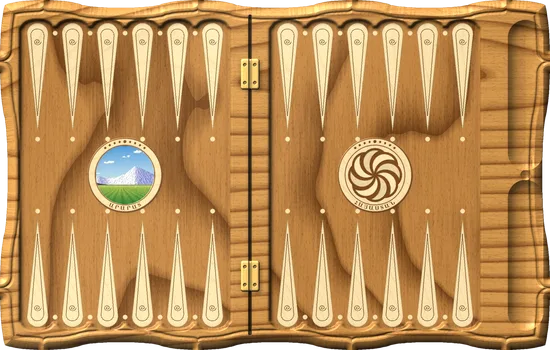
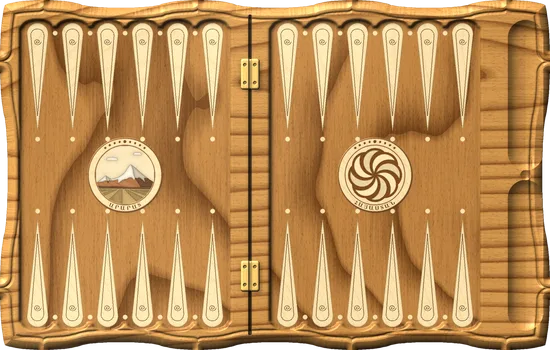
Арарат маркетри из шпона, кубики без проглядывающих граней
- медальон «Арарат» на доске «Армения» собран из кусков шпона разных пород (небо, облака, камень и снег на свету и в тени, предгорья, поле полосами), Сис и Масис целиком в круге
- у каждого кубика своя перспектива сверху: лежащий кубик показывает только верхнюю грань; сердечник закрывает щели между гранями в полёте

Claude-Session: https://claude.ai/code/session_013vq6NREHT7txoK1nXmxN83

Changed region(s): [[0.1545, 0.4, 0.2782, 0.6]]

diff --git a/index.html b/index.html
@@ -95,8 +95,9 @@ svg#board{position:absolute;inset:0;width:100%;height:100%;display:block}
 .hit{cursor:pointer}
 
 /* ---------- 3D кубики ---------- */
-.dice3d{position:absolute;inset:0;pointer-events:none;perspective:calc(var(--ds,50px) * 14);overflow:visible}
-.d3{position:absolute;width:var(--ds,50px);height:var(--ds,50px);margin:calc(var(--ds,50px) / -2) 0 0 calc(var(--ds,50px) / -2);transform-style:preserve-3d;transition:opacity .25s}
+.dice3d{position:absolute;inset:0;pointer-events:none;overflow:visible}
+/* у каждого кубика своя перспектива с точкой зрения прямо над ним: лежащий кубик показывает только верхнюю грань */
+.d3{position:absolute;width:var(--ds,50px);height:var(--ds,50px);margin:calc(var(--ds,50px) / -2) 0 0 calc(var(--ds,50px) / -2);perspective:calc(var(--ds,50px) * 14);transition:opacity .25s}
 .d3.used{opacity:.32}
 .d3.grab{pointer-events:auto;cursor:grab;touch-action:none}
 .d3.grab .cube{animation:nudge 2.4s ease-in-out infinite}
@@ -117,6 +118,8 @@ svg#board{position:absolute;inset:0;width:100%;height:100%;display:block}
   box-shadow:inset 0 0 0 1px rgba(176,138,62,.55),inset 0 calc(var(--ds,50px) * -.06) calc(var(--ds,50px) * .12) rgba(90,60,20,.25);
   display:grid;grid-template:repeat(3,1fr)/repeat(3,1fr);padding:16%;
 }
+/* внутренний сердечник: закрывает щели между скруглёнными гранями, когда кубик повёрнут ребром */
+.d3 .core{position:absolute;inset:3%;border-radius:16%;background:#d9cba8}
 .d3 .pip{width:68%;height:68%;margin:auto;border-radius:50%;background:radial-gradient(circle at 40% 35%,#3a2a1a,#0f0904);box-shadow:inset 0 1px 1px rgba(0,0,0,.6)}
 .d3 .pip.red{background:radial-gradient(circle at 40% 35%,#c0484a,#6e1517)}
 
@@ -303,7 +306,7 @@ svg#board{position:absolute;inset:0;width:100%;height:100%;display:block}
 (()=>{
 'use strict';
 const $=id=>document.getElementById(id);
-const APP_VERSION='8';   // совпадает с VERSION в sw.js; добавляется к адресам картинок, чтобы новые доски не брались из старого кэша
+const APP_VERSION='9';   // совпадает с VERSION в sw.js; добавляется к адресам картинок, чтобы новые доски не брались из старого кэша
 const NS='http://www.w3.org/2000/svg';
 const f2=v=>(+v).toFixed(1);
 
@@ -633,6 +636,7 @@ function dieEl(v){
     const [a,b]=FACE[f]; let pips='';
     for(let k=0;k<9;k++) pips+=PIPIDX[f].includes(k)?`<i class="pip${f===1?' red':''}"></i>`:'<i></i>';
     faces+=`<div class="face" style="transform:rotateX(${a}deg) rotateY(${b}deg) translateZ(calc(var(--ds) / 2))">${pips}</div>`;
+    faces+=`<div class="core" style="transform:rotateX(${a}deg) rotateY(${b}deg) translateZ(calc(var(--ds) * .47))"></div>`;
   }
   el.innerHTML=`<div class="shadow"></div><div class="mover"><div class="cube">${faces}</div></div>`;
   el.dataset.v=v;

diff --git a/sw.js b/sw.js
@@ -1,5 +1,5 @@
 // Офлайн-кэш: страница, доски, звуки и шрифты кэшируются при установке.
-const V = '8';                 // = APP_VERSION в index.html
+const V = '9';                 // = APP_VERSION в index.html
 const VERSION = 'nardy-v' + V;
 const SHELL = [
   './',

diff --git a/tools/render_boards.py b/tools/render_boards.py
@@ -257,79 +257,92 @@ ARARAT_RIDGE = [(-60, 6), (0, 20), (40, 38), (72, 54), (80, 57), (88, 54), (110,
                 (392, 74), (414, 64), (440, 52), (480, 35), (540, 14)]
 
 
-def ararat_painting(R, seed=7):
-    """Миниатюра под лаком: заснеженные Сис и Масис над зелёной долиной. Возвращает RGB размером (2R*S)^2."""
-    N = int(2 * R * S) * 3                                    # рисуем с запасом и уменьшаем
-    v, u = (np.mgrid[0:N, 0:N] + .5) / N * 2 - 1              # u вправо, v вниз, оба в -1..1
+def veneer(n, cols, angle, seed, **kw):
+    """Квадратный лист шпона n×n с волокнами под углом angle (градусы)."""
+    big = int(n * 1.45)
+    t = wood(big, big, *cols, seed=seed, **kw)
+    t = ndi.rotate(t, angle, axes=(0, 1), reshape=False, order=1, mode='reflect')
+    o = (big - n) // 2
+    return t[o:o + n, o:o + n]
+
+
+def ararat_marquetry(R, seed=7):
+    """Арарат маркетри: каждая часть пейзажа — отдельный кусок шпона своей породы со своим направлением волокон,
+    между кусками тонкий клеевой шов, края подпалены песком (sand shading) для объёма.
+    Сис и Масис целиком помещаются в круг радиуса R. Возвращает RGB размером (2R*S)^2."""
+    N = int(2 * R * S) * 2
+    v, u = (np.mgrid[0:N, 0:N] + .5) / N * 2 - 1
     rng = np.random.default_rng(seed)
-    hor, sc = .34, 1 / 175                                    # линия долины, масштаб эталона
+    hor, sx, sy = .40, 1 / 262, 1 / 150                       # по высоте горы чуть вытянуты, чтобы читались в круге
     x = u[0]
-    px = x / sc + 240
-    ridge = np.interp(px, *zip(*ARARAT_RIDGE)) * sc
-    ridge = ndi.gaussian_filter1d(ridge, N / 400)
-    jag = np.cumsum(rng.normal(0, 1, N)); jag -= np.linspace(jag[0], jag[-1], N)
-    ridge = ridge + ndi.gaussian_filter1d(jag, N / 300) / (np.abs(jag).max() + 1e-6) * .008
+    px = x / sx + 255
+    ridge = np.interp(px, *zip(*ARARAT_RIDGE)) * sy
+    ridge = ndi.gaussian_filter1d(ridge, N / 300)
     top = hor - ridge
-    # небо и кучевые облака
-    t = np.clip((v + 1) / (hor + 1), 0, 1)[..., None]
-    img = np.array((.24, .55, .86)) * (1 - t) ** 1.3 + np.array((.70, .83, .93)) * (1 - (1 - t) ** 1.3)
-    for cx_, cy_, w_ in ((-.55, -.42, .16), (.05, -.62, .13), (.5, -.78, .2), (-.9, -.05, .08), (.62, -.12, .07)):
-        cl = np.zeros((N, N))
-        for k in range(7):
-            ex, ey = cx_ + rng.uniform(-1, 1) * w_, cy_ + rng.uniform(-.25, .2) * w_
-            rr = w_ * rng.uniform(.25, .45)
-            cl = np.maximum(cl, np.clip(1 - np.hypot((u - ex) / rr, (v - ey) / (rr * .6)), 0, 1))
-        cl = np.clip(cl * 3, 0, 1) * (v < cy_ + w_ * .12)
-        cl = ndi.gaussian_filter(cl, N / 300) * (.85 + .3 * fbm(N, N, 30, 30, seed + 20, 3))
-        shade_c = np.clip((v - cy_ + w_ * .2) / (w_ * .4), 0, 1)[..., None]
-        ccol = np.array((1.0, 1.0, .99)) * (1 - shade_c) + np.array((.80, .84, .90)) * shade_c
-        img = img * (1 - cl[..., None]) + ccol * cl[..., None]
-    # горы: снег, освещённый слева, синие тени на восточных склонах, рёбра от вершин
-    mnt = np.clip((v - top[None, :]) * N / 2.2, 0, 1)
-    wS = (1 / (1 + np.exp((px - 132) / 14)))[None, :]      # доля Сиса: склоны двух вершин сливаются без шва
-    def peak_relief(pxk, hk, sd):
-        du, dv = u - (pxk - 240) * sc, v - (hor - hk * sc)
-        rad = np.hypot(du, dv * 1.5); ang = np.arctan2(du, dv + .02)
-        def streaks(fa, fr, sd):
-            G = fbm(int(fr), int(fa), fr / 8, fa / 6, sd, 4)
-            return ndi.map_coordinates(G, [np.clip(rad * fr * .5, 0, fr - 1), (ang / math.pi * .5 + .5) * (fa - 1)], order=1, mode='nearest')
-        rib = 1 - np.abs(streaks(500, 100, sd) - .5) * 2
-        rib2 = 1 - np.abs(streaks(1400, 220, sd + 1) - .5) * 2
-        return ndi.gaussian_filter(rib ** 3 * .7 + rib2 ** 2 * .3, 1.5), np.tanh(-du / .1)
-    rS, fS = peak_relief(80, 57, seed + 3); rM, fM = peak_relief(303, 113, seed + 5)
-    relief = rS * wS + rM * (1 - wS)
-    gy, gx = np.gradient(relief)
-    slope = np.gradient(ridge)[None, :] / (2 / N)             # наклон гребня: > 0 — склон к западу (освещён)
-    face = np.tanh(slope * 1.5) * .5 + (fS * wS + fM * (1 - wS)) * .5
-    light = .58 + .5 * face + (-gx * .8 - gy * .3) * N / 70 + (relief - .5) * .08
-    light = np.clip(light, 0, 1.1)[..., None]
-    snowS, snowL = np.array((.40, .46, .80)), np.array((1.0, 1.0, .99))
-    m_col = snowS + (snowL - snowS) * light
-    low = np.clip((v - (hor - .07)) / .07, 0, 1)[..., None]        # у подножия снег сходит, проступает склон в дымке
-    m_col = m_col * (1 - low * .55) + np.array((.58, .62, .74)) * low * .55
-    img = img * (1 - mnt[..., None]) + m_col * mnt[..., None]
-    # тёмный холм у подножия Сиса и полоса садов
-    hill = np.interp(px, [-60, -10, 30, 70, 110, 140], [0, 8, 14, 12, 4, 0]) * sc
-    hm = np.clip((v - (hor - hill)[None, :]) * N / 2.2, 0, 1)
-    img = img * (1 - hm[..., None]) + np.array((.22, .20, .30)) * hm[..., None]
-    band = hor + .012
-    trees = band - (.004 + .012 * np.clip(fbm(1, N, 1, 90, seed + 11, 3)[0] - .3, 0, 1))
-    tm = np.clip((v - trees[None, :]) * N / 2.2, 0, 1)
-    img = img * (1 - tm[..., None]) + np.array((.33, .40, .18)) * tm[..., None]
-    # поле: ряды всходов сходятся к горизонту, ближе — сочнее и темнее
-    base = band + .02
-    gv = np.clip((v - base) / (1 - base), 0, 1)
-    rows = np.sin((u + .15) / (gv + .02) * 16) * .5 + .5
-    rows = rows ** 2 * np.clip(gv * 6, 0, 1)
-    field = np.array((.62, .74, .28)) * (1 - gv[..., None]) + np.array((.12, .45, .12)) * gv[..., None]
-    field = field * (1 - rows[..., None] * .2) * (.9 + .2 * fbm(N, N, 30, 60, seed + 12, 3)[..., None])
-    strip = np.exp(-((v - base - .03) / .015) ** 2)[..., None] * .35    # светлая жёлтая полоса вдали
-    field = field * (1 - strip) + np.array((.85, .80, .40)) * strip
-    vm = np.clip((v - band) * N / 2.2, 0, 1)
-    img = img * (1 - vm[..., None]) + field * vm[..., None]
-    # тёплый тон лака и мазок кисти
-    img = img * np.array((1.0, .97, .90)) * (.97 + .06 * fbm(N, N, 90, 90, seed + 14, 2)[..., None])
-    out = Image.fromarray((np.clip(img, 0, 1) * 255).astype(np.uint8)).resize((N // 3, N // 3), Image.LANCZOS)
+    mnt = v > top[None, :]
+    # подножие: пологая линия предгорий, ниже — поле
+    foot = hor + .02 * np.sin(x * 2.3 + .6) + .01 * np.sin(x * 7.1)
+    fieldline = hor + .075 + .015 * np.sin(x * 1.7 - .4)
+    # вершины и линия тени (от вершины вниз-вправо: восточные склоны в тени)
+    peaks = [((80 - 255) * sx, hor - 57 * sy), ((303 - 255) * sx, hor - 113 * sy)]
+    wS = 1 / (1 + np.exp((px - 132) / 10))[None, :]
+    def shadow_side(pu, pv):
+        wob = .03 * np.sin((v - pv) * 9 + pu * 5)
+        return u > pu + (v - pv) * .42 + wob
+    # тень Сиса кончается у седловины: дальше вниз-влево её закрывает западный склон Масиса
+    su, sv = (132 - 255) * sx, hor - 39 * sy
+    sis_sh = shadow_side(*peaks[0]) & (u < su - .04 - (v - sv) * .55)
+    shadow = np.where(wS > .5, sis_sh, shadow_side(*peaks[1]))
+    # снег: языками вниз по кулуарам; вырезан ножом, поэтому края плавные
+    hgtM = np.clip((hor - v) / (113 * sy), 0, 1); hgtS = np.clip((hor - v) / (57 * sy), 0, 1)
+    ws2 = 1 / (1 + np.exp((px - 132) / 28))[None, :]
+    hgt = hgtS * ws2 + hgtM * (1 - ws2)
+    ang = np.where(wS > .5, np.arctan2(u - peaks[0][0], v - peaks[0][1] + .05), np.arctan2(u - peaks[1][0], v - peaks[1][1] + .05))
+    knots = rng.random(64)
+    tf = lambda a, k: np.interp(a * k, np.arange(64) - 32, knots, period=64)
+    tongues = (tf(ang, 5) * ws2 + tf(ang, 9) * (1 - ws2)) ** 2.2
+    snowline = .50 * ws2 + .40 * (1 - ws2) - tongues * .34 + (fbm(N, N, 3, 3, seed + 2, 2) - .5) * .08
+    snow = mnt & (hgt > snowline)
+    # метки кусков
+    L = np.zeros((N, N), int)                                 # 0 небо
+    L[mnt & ~snow & ~shadow] = 1                              # камень, свет
+    L[mnt & ~snow & shadow] = 2                               # камень, тень
+    L[snow & ~shadow] = 3                                     # снег, свет
+    L[snow & shadow] = 4                                      # снег, тень
+    L[v > foot[None, :]] = 5                                  # предгорья
+    L[v > fieldline[None, :]] = 6                             # поле
+    for cx_, cy_, w_ in ((-.45, -.52, .17), (.42, -.70, .13)):  # облака
+        cl = np.zeros((N, N), bool)
+        for k in range(5):
+            ex = cx_ + (k - 2) / 2 * w_ * .8; rr = w_ * (.45 if k in (1, 2, 3) else .3) * rng.uniform(.85, 1.1)
+            cl |= np.hypot((u - ex) / rr, (v - cy_ + rr * .5) / (rr * .75)) < 1
+        L[cl & (v < cy_ + .01) & (L == 0)] = 7
+    # поле — полосы двух пород, сходящиеся к горизонту, как ряды всходов
+    gv = np.clip((v - fieldline[None, :]) / (1 - hor), 0, 1)
+    strip = np.floor((u + .1) / (gv + .08) * 1.6).astype(int) % 2
+    L[(L == 6) & (strip == 1) & (gv > .06)] = 8
+    woods = {0: (((.94, .86, .69), (.86, .75, .55)), 2, dict(rings=8, contrast=.25, fiber=.08, warp=1)),
+             1: (((.72, .47, .27), (.55, .32, .16)), -38, dict(rings=14, contrast=.45, fiber=.12)),
+             2: (((.44, .27, .15), (.27, .15, .07)), 42, dict(rings=16, contrast=.45, fiber=.12)),
+             3: (((.99, .95, .86), (.93, .87, .74)), -60, dict(rings=10, contrast=.22, fiber=.07, warp=1)),
+             4: (((.83, .77, .65), (.71, .63, .50)), 60, dict(rings=10, contrast=.3, fiber=.08, warp=1)),
+             5: (((.50, .33, .18), (.33, .20, .09)), 0, dict(rings=10, contrast=.5, fiber=.12)),
+             6: (((.78, .64, .38), (.62, .48, .26)), 90, dict(rings=26, contrast=.4, fiber=.1)),
+             7: (((.99, .95, .86), (.93, .87, .74)), 0, dict(rings=6, contrast=.2, fiber=.06)),
+             8: (((.66, .52, .29), (.52, .39, .20)), 90, dict(rings=26, contrast=.4, fiber=.1))}
+    img = np.zeros((N, N, 3))
+    for k, (cols, angle, kw) in woods.items():
+        m = L == k
+        if not m.any(): continue
+        tex = veneer(N, cols, angle, seed * 10 + k, **kw)
+        # песочная подпалина: кусок темнее у краёв, сильнее у нижнего края снега и у гребня предгорий
+        d = ndi.distance_transform_edt(m) / N
+        burn = np.exp(-d / .025) * (.28 if k in (3, 4, 5) else .16)
+        img[m] = (tex * (1 - burn[..., None]))[m]
+    # клеевые швы между кусками — линия в пиксель
+    seam = (ndi.maximum_filter(L, 2) != ndi.minimum_filter(L, 2)).astype(float)
+    img = img * (1 - seam[..., None] * .55)
+    out = Image.fromarray((np.clip(img, 0, 1) * 255).astype(np.uint8)).resize((N // 2, N // 2), Image.LANCZOS)
     return np.asarray(out, float) / 255
 
 
@@ -541,14 +554,13 @@ def board_yerevan():
         h += disc * 1.2 - (txt + dots) * .8
     medallion(250, 350, 'ԱՐԱՐԱՏ')
     medallion(750, 350, 'ՀԱՅԱՍՏԱՆ')
-    # слева — живописная миниатюра Арарата под лаком
+    # слева — Арарат маркетри
     pic = np.zeros((H, W, 3)); n = int(2 * 58 * S)
     y0, x0 = int((350 - 58) * S), int((250 - 58) * S)
-    pic[y0:y0 + n, x0:x0 + n] = ararat_painting(58)
+    pic[y0:y0 + n, x0:x0 + n] = ararat_marquetry(58)
     pm = circle(250, 350, 58.2)
     alb = put(alb, pm, pic)
-    gloss = np.maximum(gloss, pm)
-    h -= pm * .6
+    h -= pm * .3
     # справа — аревахач маркетри
     arevakhach_inlay(alb, h, 750, 350, 54, BIRCH, ((.50, .28, .11), (.30, .15, .05)), 77)
     gap = rrect(497.5, 30, 502.5, 670, 2)
